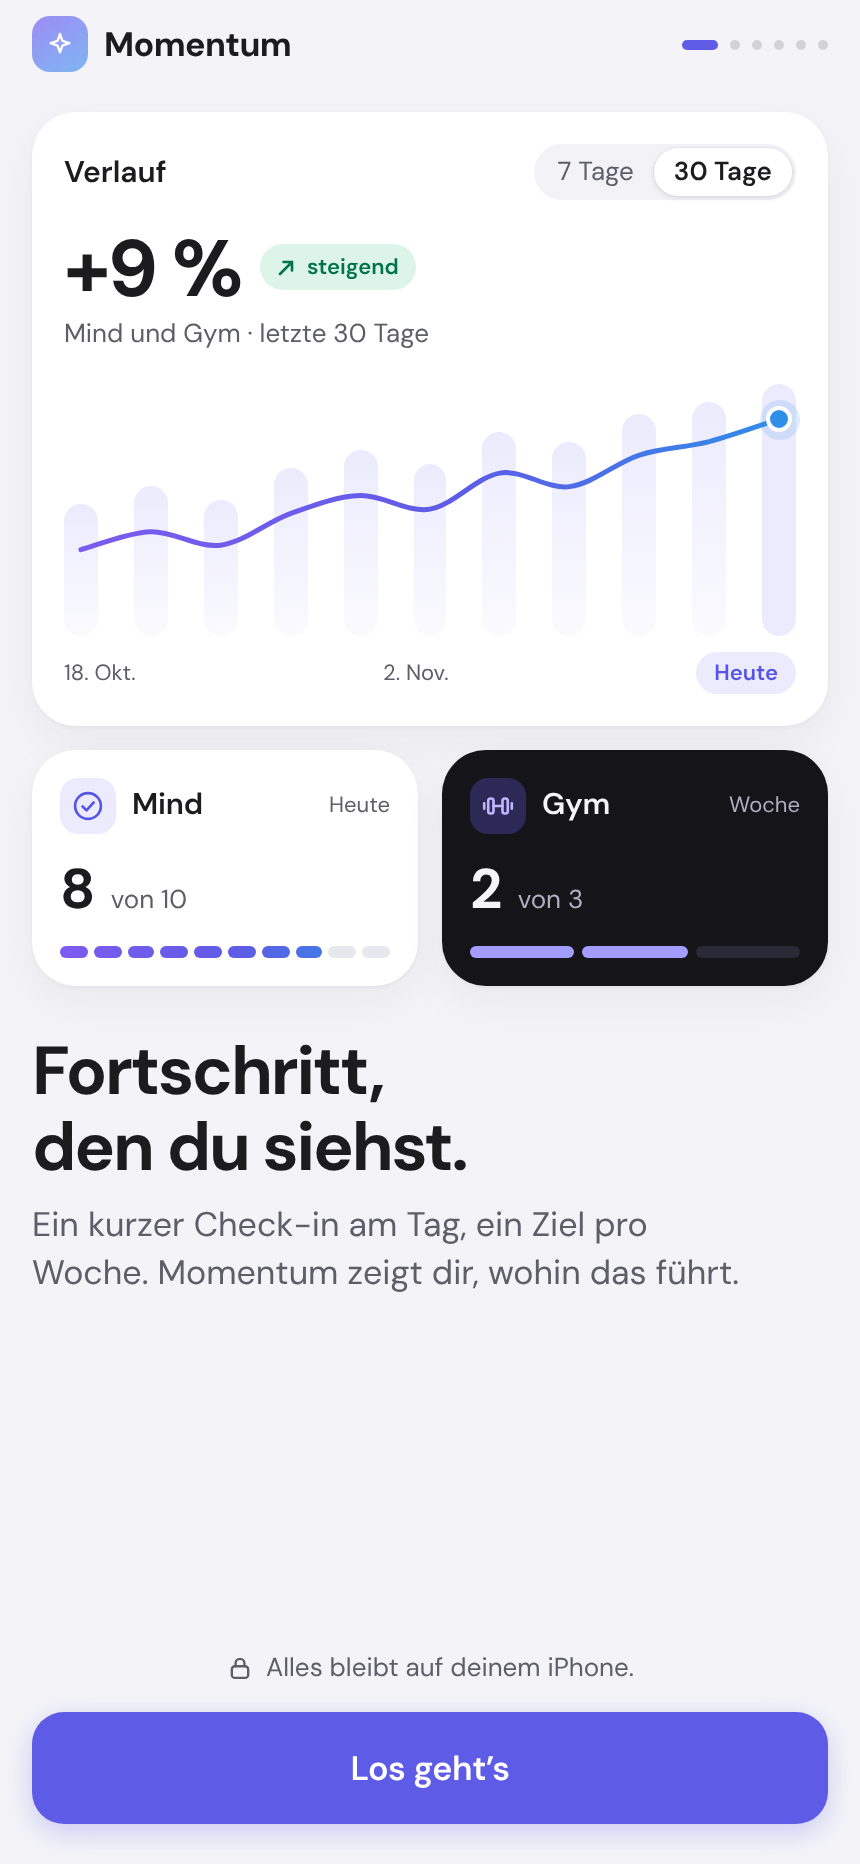
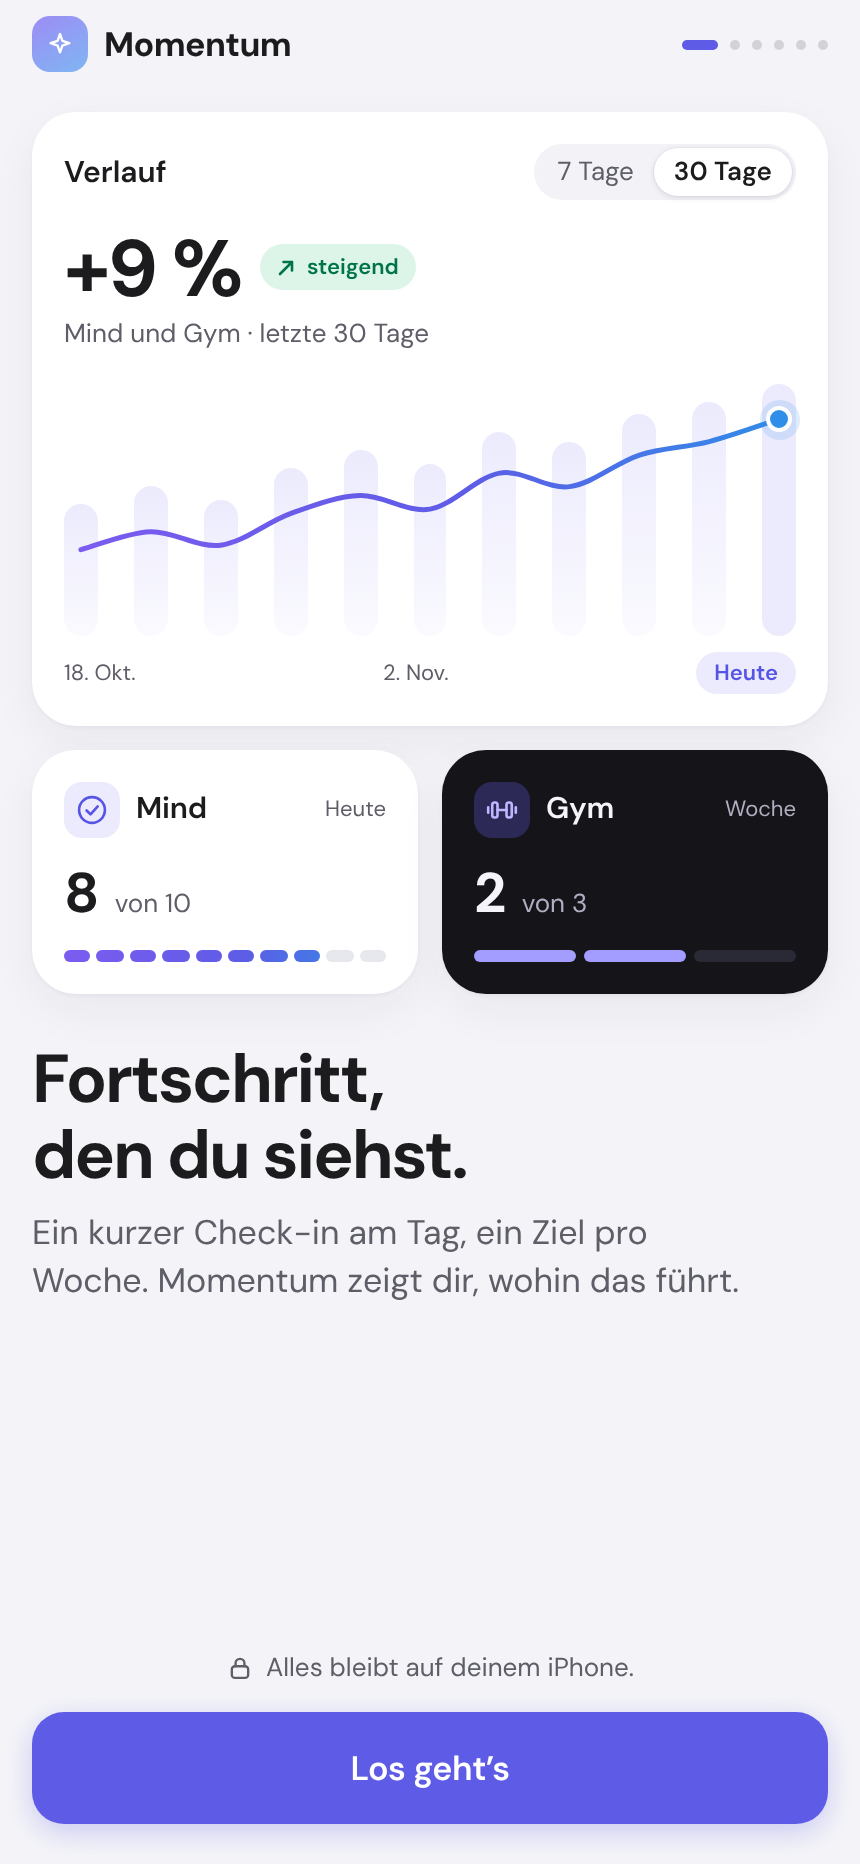
STOP 7E-a2: the review in D190, the font's figures, the pictures again
Claude-Session: https://claude.ai/code/session_01DdLuA7BvNfz9LeqrqZhkGQ

diff --git a/docs/wp3/vertrag.md b/docs/wp3/vertrag.md
@@ -345,9 +345,9 @@ Massgebend für den Look ist der Entwurf «C1 · Momentum, referenznah» (Richtu
 - **b) Farbe in Datenmarken, nur im Hero von Slide 1.** Die Linie ist ein Verlauf `#7c5cf0` → `#5e5ce6` → `#2f8fe8` (`--onboarding-line-start`, `--accent`, `--onboarding-line-end`); die Balken dahinter stehen in `--accent-tint` und laufen nach unten aus; die Mind-Segmente folgen demselben Verlauf; die Gym-Segmente tragen den Gym-Akzent. Der Endpunkt der Linie hat einen Hof. Auf allen anderen Schritten bleiben Datenmarken neutral nach §2.1 und §6 (`--data-ink` auf `--data-track`, auf der Rang-Bühne `--stage-data-ink` auf `--stage-data-track`). Auch im Hero liegt kein Flächenverlauf unter der Linie (§6).
 - **c) Hero-Zahl.** 40 px fett als eigene Zahlstufe, `--type-figure-hero`. Sie steht einmal, im Hero von Slide 1.
 - **d) Beispielwerte, nur im Hero von Slide 1.** Der Hero ist ein Bild: `role="img"` mit einer Beschreibung, die sagt, dass es Beispielwerte sind. Er enthält keine Bedienelemente; was darin wie ein Segment oder eine Marke aussieht, ist gezeichnet. Kein anderer Schritt zeigt einen Wert, den es nicht gibt: Die übrigen Schritte zeigen eine echte Frage aus dem Katalog, die echten Ränge mit ihren Schwellen, die Ziele, die der Ablauf gerade hält – Gym öffnet mit seinem Standardziel, Laufen ohne Ziel und zeigt darum keine Zahl –, und die Auswahl der Person. Mind steht in der Zusammenfassung nur mit mindestens einer Frage: Ohne Frage bleibt Mind ausgeschaltet (`applyOnboarding`), und die Zusammenfassung sagt nichts anderes.
-- **e) Schrift.** DM Sans (SIL Open Font License 1.1), als eine Datei mit den Gewichten 400 bis 700 in der App enthalten (`--font-onboarding`); kein Nachladen von einem fremden Server. Ein Sheet, das das Onboarding öffnet, spricht in derselben Schrift. Die Systemschrift (§3) bleibt für die App.
+- **e) Schrift.** DM Sans (SIL Open Font License 1.1), als eine Datei mit den Gewichten 400 bis 700 in der App enthalten (`--font-onboarding`); kein Nachladen von einem fremden Server. Ein Sheet, das das Onboarding öffnet, spricht in derselben Schrift. Die Systemschrift (§3) bleibt für die App. Die Datei hat **keine festen Ziffernbreiten** («1111» misst bei 40 px 49,9 px, «8888» 97,3 px, mit und ohne `tabular-nums`). Im Onboarding stehen keine Zahlen untereinander – die Skala 1–10 und die Segmente 1–7 stehen mittig in gleich breiten Zellen –, die Regel aus §3 ist dort also durch das Layout erfüllt, nicht durch die Schrift.
 
-**Dunkle Flächen.** Sparsam: höchstens eine pro Screen. Sie steht immer für Gym oder für den Rang und bleibt kleiner als die hellen Flächen zusammen. Die Gym-Fläche erklärt für sich die Gym-Welt (`data-world="gym"`) und liest jede Farbe aus diesem Satz; die Rang-Bühne benutzt die Tokens `--stage-*` (§2.6). Der Satz «Die Gym-Karte auf einem hellen Screen ist hell» (§2.2) gilt für die App weiter.
+**Dunkle Flächen.** Sparsam: höchstens eine pro Screen. Sie steht immer für Gym oder für den Rang und bleibt kleiner als die hellen Flächen zusammen. Die Gym-Fläche erklärt für sich die Gym-Welt (`data-world="gym"`) und liest jede Farbe aus diesem Satz; die Rang-Bühne benutzt die Tokens `--stage-*` (§2.6). Nur der Fokusring einer dunklen Kachel, der ausserhalb von ihr auf dem hellen Grund liegt, nimmt den hellen Akzent (`--onboarding-ring`), weil der violette Akzent von Graphit dort nur 2,2:1 erreicht. Der Satz «Die Gym-Karte auf einem hellen Screen ist hell» (§2.2) gilt für die App weiter.
 
 **Sonst gelten die bestehenden Tokens**, ohne neue Farbwerte: `--accent` für die eine Hauptschaltfläche je Schritt (§5), die Statusfarben nur für einen Zustand (der Chip «steigend»), `--accent-tint` mit `--accent-ink` für die Marke einer Welt in ihrer Kachel und für die Marke «Heute». Die zwei Farbwerte aus b) sind die einzigen, die das Onboarding hinzufügt.
 

diff --git a/docs/decisions.md b/docs/decisions.md
@@ -6316,8 +6316,46 @@ built on the head of that branch (`adf1ead`) on a branch of its own.
   with every other built file, so every installation downloads it once.
 - **Credited** under Bereiche → Einstellungen → Danksagungen, with the
   copyright line and the licence, and in `THIRD-PARTY-NOTICES.md`; the
-  licence text lies beside the file (`OFL.txt`). Whether the app takes it
-  too is a question of STOP 7E-a2.
+  licence text ships with every build (`public/licenses/dm-sans-OFL.txt`).
+  Whether the app takes it too is a question of STOP 7E-a2.
+
+- **It has no tabular figures**: «1111» measures 49.9px and «8888» 97.3px
+  at 40px, with `tabular-nums` and without. No numbers stand in a column
+  in the onboarding — the scale 1–10 and the segments 1–7 are centred in
+  cells of one width — so the contract's rule (§3) is met there by the
+  layout, not by the face. For the app it is the main cost of taking the
+  face (STOP 7E-a2).
+
+### Found by the review before the STOP
+
+Three readers went over the block — behaviour and scope, the contract and
+accessibility, copy and layout — and a skeptic tried to refute each
+finding. Five held, and are fixed:
+
+- **The summary set "Eine Frage täglich" at the tile's figure step**, a
+  sentence at 28px bold that broke into three lines at 320px, where two
+  questions printed "3" with "Fragen täglich" as its unit. One question is
+  now "1 Frage täglich", a figure with its unit like the others.
+- **The tiles and the rank's stage left the card inset** (14px and 20px):
+  both are `--card-pad` now (contract §4). Under 375px the head of a tile
+  takes a smaller mark and smaller gaps, so "Gym" and "Woche" fit beside
+  the mark at 320px without running into the inset (they ran 7.5px into
+  it).
+- **The focus ring of the dark Gym tile** was the Gym accent on the light
+  ground, 2.2:1; it is the light accent now.
+- **The bars of the hero vanished where `color-mix()` is unknown** (iOS 15
+  and 16.0–16.1): a declaration with `var()` is accepted when it is parsed
+  and only fails when it is computed, so the plain gradient before it
+  never took over. The mixed foot now stands in a feature query.
+- **The picture script's English walk** stopped on its second step: a new
+  device starts in German, and the script now sets the stored language
+  first.
+
+Refuted: that the first slide's "ein Ziel pro Woche" contradicts two
+targets (it is the canvas's sentence, and the setup says "je ein eigenes
+Ziel"); that the notices claimed a file in the build that is not there
+(the claim was older than the block — and the font's licence now does
+ship, as `licenses/dm-sans-OFL.txt`).
 
 ### Short screens
 

diff --git a/docs/wp3/stage7e/README.md b/docs/wp3/stage7e/README.md
@@ -47,8 +47,10 @@ English.
   installation downloads it once; the browser reads it only while the
   onboarding shows text in it.
 - **The build** against block 7D's head (`adf1ead`): the stylesheet
-  +11,341 bytes (+1,798 gzip), the script +13,201 bytes (+3,419 gzip).
+  +11,815 bytes (+1,869 gzip), the script +13,196 bytes (+3,422 gzip).
   In all, an installation fetches about 42 kB more, 37 of them the font.
+  The font's licence text goes out with the build as well
+  (`licenses/dm-sans-OFL.txt`, 4,502 bytes); it is not precached.
 - **No new dependency**, no stored record, no schema or backup version;
   `applyOnboarding` and what the flow hands to it are as they were.
 
@@ -78,10 +80,15 @@ English.
 
 - The three slides fit without scrolling at 320 × 693, 390 × 664, 393 ×
   659 and on every taller screen; the areas, the weekly targets and the
-  summary from 320 × 568 (the targets but for 11px there). The questions
-  scroll by nature. On 360 × 640 and 375 × 647 the first slide scrolls by
+  summary from 320 × 568. The questions scroll by nature. On 360 × 640 and 375 × 647 the first slide scrolls by
   about 30px; on 320 × 568 and 375 × 548 the slides scroll by up to
   130px, the button stays.
+- **The face is DM Sans at its small optical size**: the file has the
+  weight axis only. The package's file with the optical-size axis as well
+  (62,724 bytes, 25,792 more) sets the 34px titles about 6 % tighter
+  («den du siehst.» 203.7px instead of 217.3px) and the 40px figure 4 %;
+  13px text stays as it is. Not taken: the owner asked for the weights 400
+  to 700, and the canvas's own letter-spacing was kept.
 - The second slide's title is «Zwei Welten. Ein Verlauf.» and the third's
   «Ein Rang für alles.»; «Rang und Meilensteine» is gone with the
   milestones the slide no longer shows.

diff --git a/THIRD-PARTY-NOTICES.md b/THIRD-PARTY-NOTICES.md
@@ -4,8 +4,8 @@ Momentum ships two things that are not its own: the 3D body, which is built
 from third-party data, and the typeface of its onboarding. The body's source
 is in the public domain and asks for no credit; the app names it all the
 same, and the typeface's licence asks for its notice. Both are named under
-Bereiche → Einstellungen → Danksagungen, and this file ships with every
-build. A last section credits files that are kept in the repository but are
+Bereiche → Einstellungen → Danksagungen. This file lies in the repository
+beside the source; the typeface's licence text ships with every build. A last section credits files that are kept in the repository but are
 not part of the app.
 
 ## 3D body model — `public/models/momentum-body.glb`
@@ -51,8 +51,8 @@ What Momentum made of them, by script and reproducibly (`tools/body/`):
 **DM Sans**, Copyright 2014 The DM Sans Project Authors
 (https://github.com/googlefonts/dm-fonts), licensed under the **SIL Open
 Font License, Version 1.1** (https://openfontlicense.org). The licence text
-lies beside the font file, in `src/features/onboarding/fonts/OFL.txt`, as it
-came with the font.
+ships with every build as `licenses/dm-sans-OFL.txt` (from
+`public/licenses/`), as it came with the font.
 
 The file is the Latin subset of the variable font with its weight axis, as
 the package `@fontsource-variable/dm-sans` 5.3.0 distributes it (36,932
